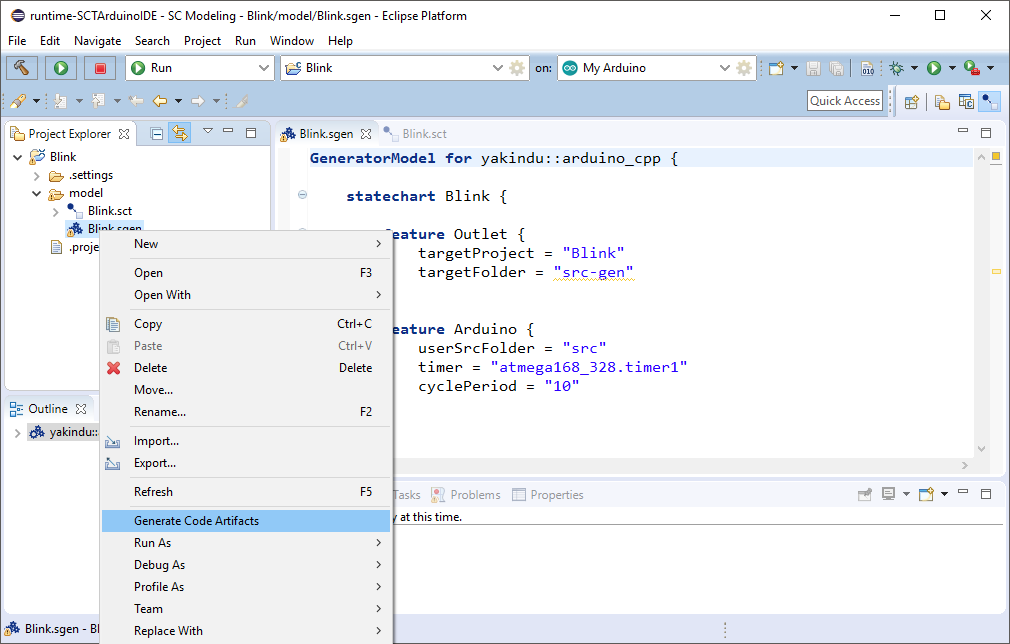
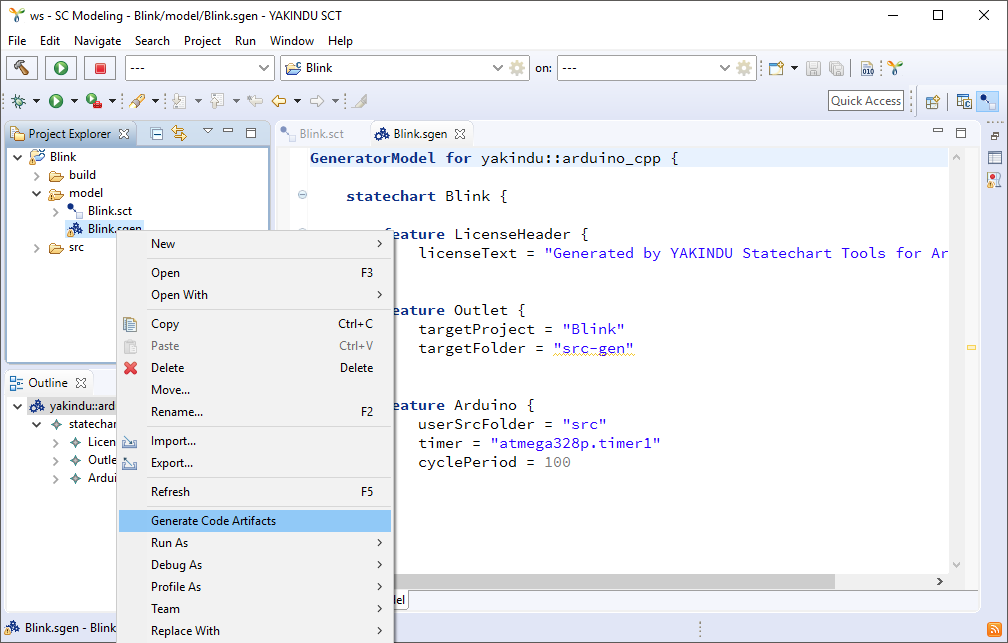
Updated the help pages.

diff --git a/plugins/org.yakindu.sct.arduino.help/md/ProjectSetup.md b/plugins/org.yakindu.sct.arduino.help/md/ProjectSetup.md
@@ -17,7 +17,7 @@ On the last page you can choose values for a set of properties of the Arduino SC
 * a name for the statechart. The default is the project name. You can choose any valid C++ identifier, since it will be used as a class name.
 * a source code folder - it will contain the source code that will be edited by you. Initially, two files will be generated and put into this folder, &lt;StatechartName&gt;Connector.h and &lt;StatechartName&gt;Connector.cpp. After the first code generation these files will be kept untouched by the code generation.
 * a generated source code folder - it will contain all the rest of the source code generated by the tool that is necessary to run your statechart on the Arduino. The source code in this folder should not be changed by the user and will be overwritten by the code generator.
-* the timer implementation - currently, there are two timer implementations to run the cycles of the statechart. You can choose between a software based timer that is compatible to all kinds of Arduinos and a hardware based timer of the ATmega168 and ATmega328 microcontrollers.
+* the timer implementation - there are several timer implementations to run the cycles of the statechart. You can choose between a generic software based timer that is compatible to most microcontrollers and hardware based timers for various microcontrollers.
 
 After setting the properties, click "Finish".
 

diff --git a/plugins/org.yakindu.sct.arduino.help/md/ProgrammingArduino.md b/plugins/org.yakindu.sct.arduino.help/md/ProgrammingArduino.md
@@ -16,6 +16,10 @@ Our statechart model for the "Blink" example is now complete. Open the context m
 
 ![Generate Code Artifacts](screenshots/GenerateCodeArtifacts.png)
 
+You might also open the SGen Multi Page Editor via the context menu on the "Blink.sgen" file in the Project Explorer. Choose "Open With" and select the Multi Page Editor. On the form page you can click on the gear-wheels in the upper right corner to generate the code artifacts.
+
+![SGen Multi Page Editor](screenshots/SGenMultiPageEditor.png)
+
 Your Eclipse environment should now look like depicted in the figure below. There are two new folders, "src" and "src-gen". The "src-gen" folder contains the statemachine generated from the statechart, interfaces to the statemachine, a timer implementation, and everything else that is needed to execute the statemachine on your Arduino. The "src" folder is meant to be changed by the developer. We will go into detail later.
 
 ![Project after Code Generation](screenshots/ProjectAfterCodeGeneration.png)
